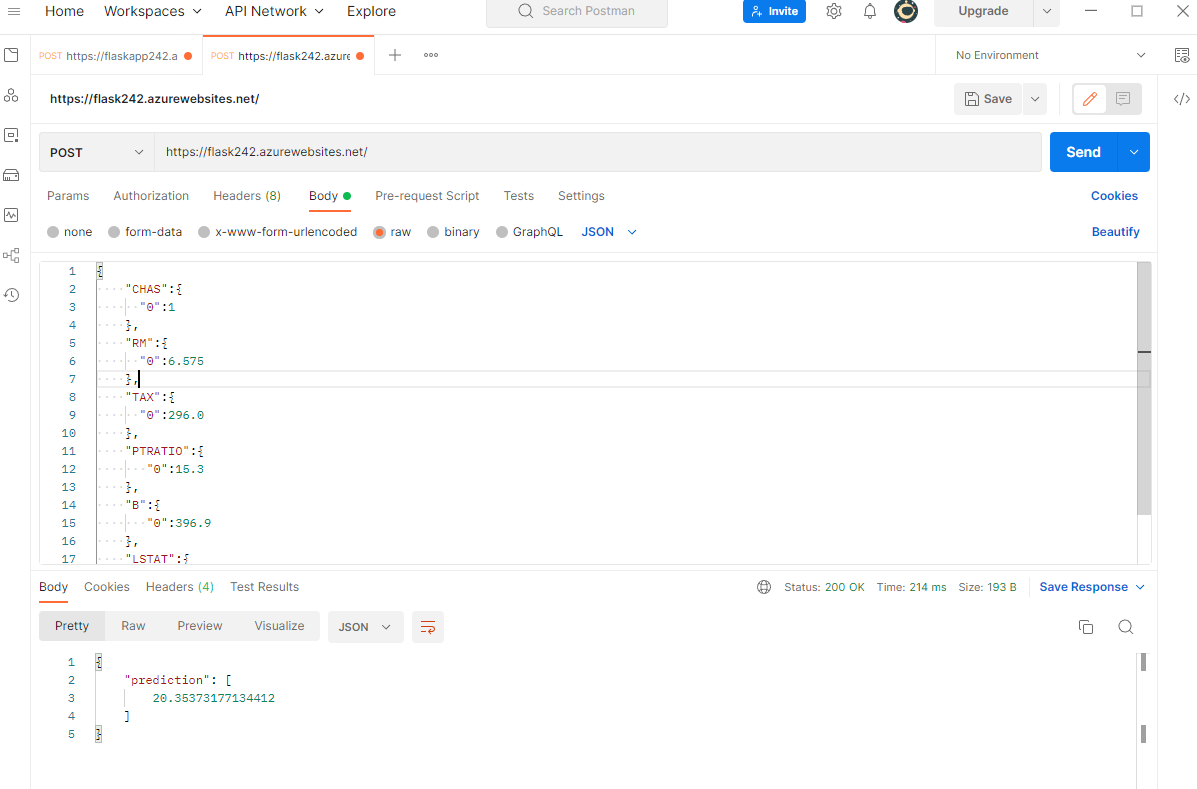
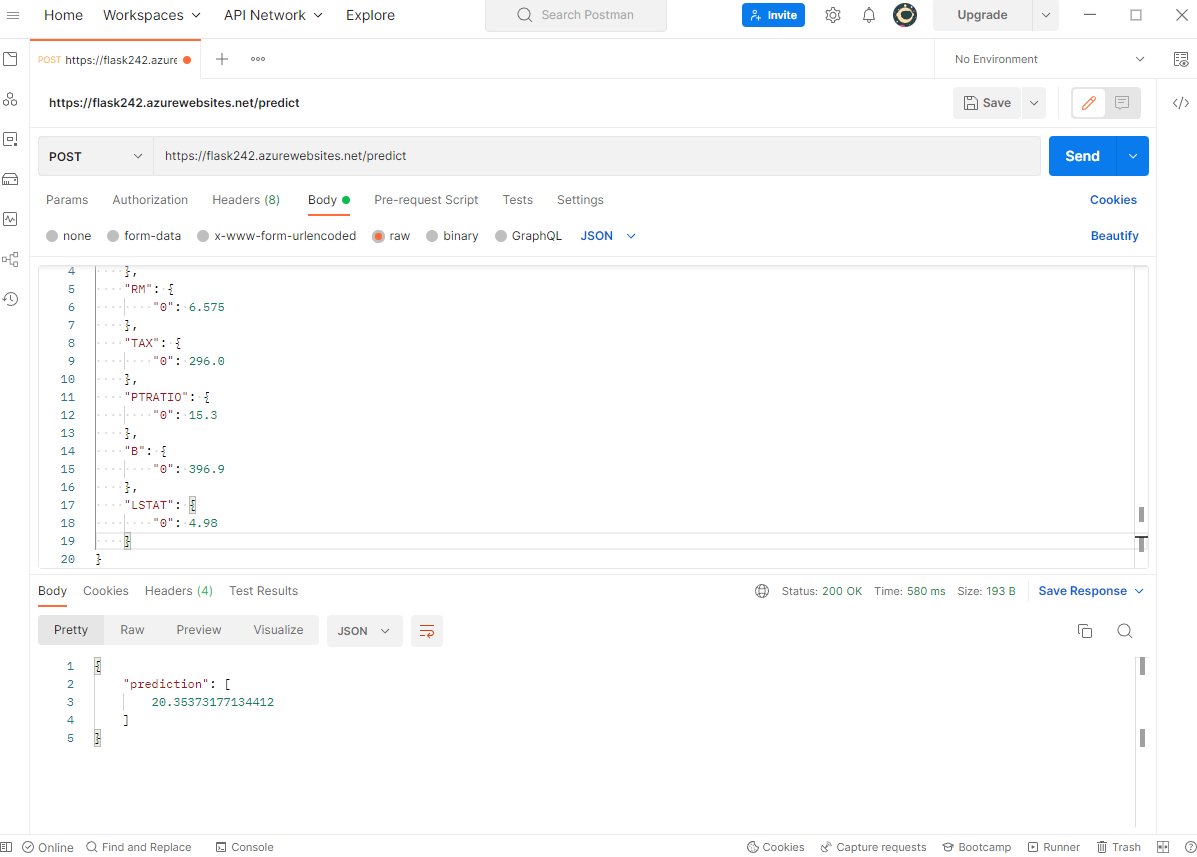
Added Readme

diff --git a/README.md b/README.md
@@ -1,2 +1,84 @@
-# CICD-pipeline-azure
-The second project of Udacity Devops with Azure nanodegree. It involves Continuous Integration and Continuous Delivery of a Flask MI app.
+# Overview
+
+Building a CI/CD pipeline using Azure pipelines
+This Project showcases the understanding of deploying of a simple Flask ML
+webapp.
+This is the second project of Udacity Azure Devops Engineer Nanodegree  
+
+[![Python application test with Github Actions](https://github.com/usama242/CICD-pipeline-azure/actions/workflows/pythonapp.yml/badge.svg)](https://github.com/usama242/CICD-pipeline-azure/actions/workflows/pythonapp.yml)
+## Project Plan
+Project Plan
+
+* [Trello](https://trello.com/invite/b/ODOmXQ1j/bf802ea5565e52c2a79cc932b071d270/buildina-a-ci-cd-pipeline)
+
+* [Projectplan](https://docs.google.com/spreadsheets/d/1dfHD_L_i75A5C4FfSY8kLn8p6jqw2Hw3VbkOk0y4Rdc/edit?usp=sharing)
+
+## Instructions
+
+* Architectural Diagram
+
+![image](./Screenshots/Architectural%20diagram.png)
+
+steps:
+1. In Azure Cloudshell clone the repo
+2. cd to directory CICD-pipeline-azure
+3. create environment and activate it (if not yet created)
+   - `make setup`
+   - `source ~/.udacity-devops/bin/activate`
+4. run `-r requirements.txt`
+5. run the flask app `python3 app.py`
+6. test the app locally by executing `make_prediction.sh` locally. Listen to the
+   port 5000
+7. Create a web app with `az webapp up --name <Your_unique_app_name> --resource-group <Your_RG> --runtime "PYTHON:3.7"`
+8. After it is created go to the resource and open the ip adress
+9. Edit the -X Post command in make_predict_azure_app.sh (-X POST https://<unique_app_name>.azurewebsites.net:$PORT/predict)
+10. Verify whether the prediction is working by executing
+    `./make_predict_azure_app.sh`
+11. Build a self-hosted build server (if using a shared account like me)
+12. Create pipeline in the project and connect it to the Github repository.
+13. Don't forget to install Azure Pipelines and grant access to your repo from
+    Github Marketplace
+Ensure the service connection and pipeline agent is installed
+
+* Project cloned into Azure Cloud Shell
+
+![image](./Screenshots/Project_cloned.png)
+
+* initial tests passed after `make all` command from the `Makefile`
+
+![image](./Screenshots/make-all.png)
+
+* Github actions test result
+
+![image](./Screenshots/actions_test.png)
+
+* Prediction in Azure cloud shell
+
+![image](./Screenshots/predict.png)
+
+* Successful deploy of the project in Azure Pipelines.  [Note the official documentation should be referred to and double checked as you setup CI/CD](https://docs.microsoft.com/en-us/azure/devops/pipelines/ecosystems/python-webapp?view=azure-devops).
+
+* Azure app service up after the 7th step
+
+![image](./Screenshots/appup.png)
+
+* Agent installed in a VM (Self-hosted build server)
+
+![image](./Screenshots/agent.png)
+
+* Pipeline deployed successfully
+
+![image](./Screenshots/agent.png)
+
+
+* Successful prediction from deployed flask app in Azure Cloud Shell.  
+![image](./Screenshots/postman.png)
+
+## Enhancements
+
+All the infrastructure can be provisioned by an IaaS tool like Terraform
+
+## Demo 
+
+[myDemo](https://youtu.be/P6rxbPs5w1o)
+
